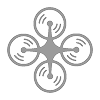
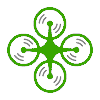
Make own army icounter green

Changed region(s): [[0.06, 0.06, 0.93, 0.93]]

diff --git a/src/styles/counter.css b/src/styles/counter.css
@@ -31,5 +31,5 @@ label {
 }
 
 .counter-friendly {
-    color: #9b9b9b;
+    color: #39a600;
 }
